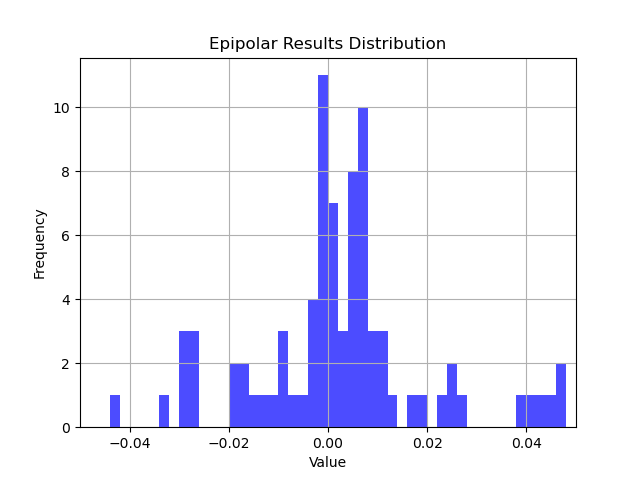
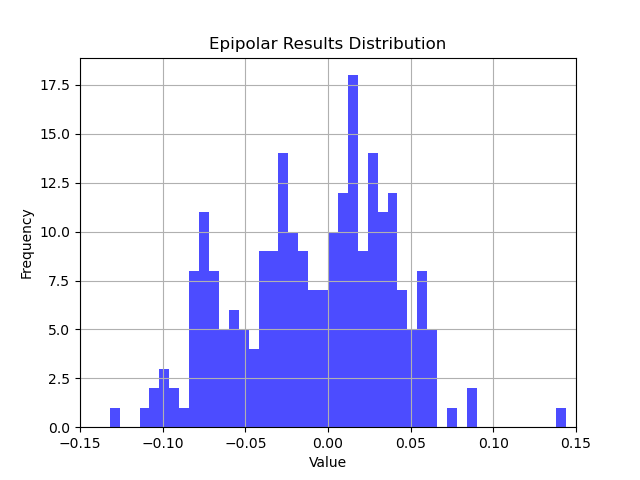
using 360loc

diff --git a/extract_keypoints.py b/extract_keypoints.py
@@ -144,6 +144,7 @@ def main():
                     R_estimated, T_estimated = choose_rt(R1_,R2_,T1_,T2_,x1,x2)
                     t_length_error = np.linalg.norm(T_true_norm - T_estimated)
                     R_error, T_error = r_error(R_true, R_estimated), t_error(T_true,T_estimated)
+
                     
                     R_ERROR[indicador].append(R_error)
                     T_ERROR[indicador].append(T_error)
@@ -203,7 +204,7 @@ def compute_essential_matrix(R, t):
     E = t_cross.dot(R)
     return E
 
-def evaluate_matches(x1, x2, E, threshold=0.01):
+def evaluate_matches(x1, x2, E, threshold=0.05):
     epipolar_results = np.einsum('ij,jk,ik->i', x2, E, x1)
     epipolar_results = np.arcsin(epipolar_results)
     valid_matches = np.sum(abs(epipolar_results) < threshold)

diff --git a/show_matching.py b/show_matching.py
@@ -147,7 +147,7 @@ def main():
 
 
 
-def evaluate_matches(x1, x2, E, threshold=0.01):
+def evaluate_matches(x1, x2, E, threshold=0.05):
     epipolar_results = np.einsum('ij,jk,ik->i', x2, E, x1)
     epipolar_results = np.arcsin(epipolar_results)
     valid_matches = np.sum(abs(epipolar_results) < threshold)
@@ -173,7 +173,7 @@ def evaluate_matches(x1, x2, E, threshold=0.01):
 
 def plot_epipolar_results(epipolar_results):
     plt.figure()
-    range = (-0.05, 0.05)
+    range = (-0.15, 0.15)
     plt.hist(epipolar_results, bins=50, color='blue', alpha=0.7, range=range)
     plt.title("Epipolar Results Distribution")
     plt.xlabel("Value")
